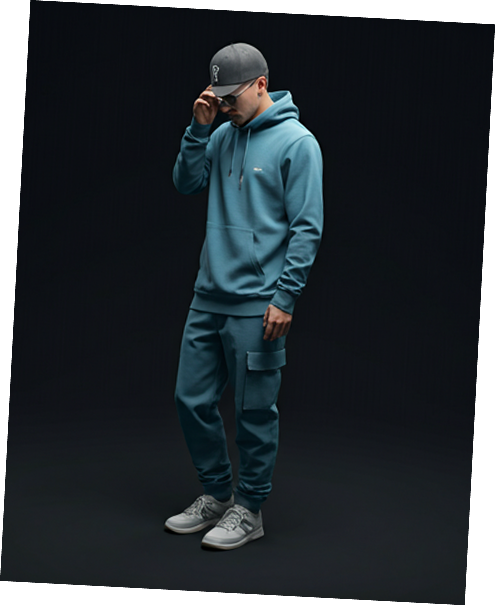
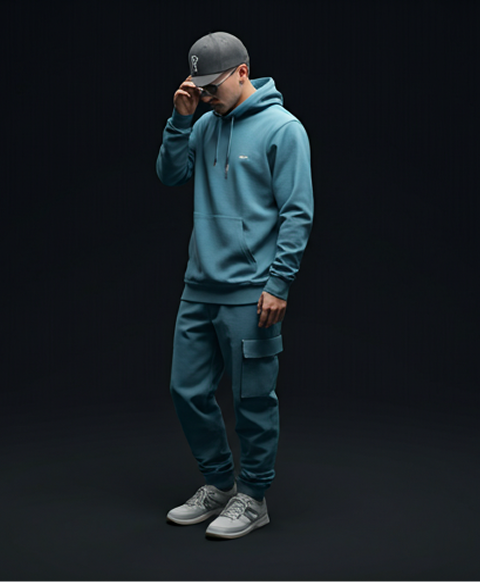
4

Changed region(s): [[0.1247, 0.0, 0.9979, 0.9278], [0.0, 0.0928, 0.9979, 1.0], [0.0, 0.0, 0.0624, 0.9278]]

diff --git a/css/style.css b/css/style.css
@@ -5,7 +5,9 @@
     --hover-color:#fdd34d;
   --main-color:#fff;
 --btn-txt:#FFF0E7;
-  --hero-bg: radial-gradient(85.61% 61.6% at 50% 50%, rgba(253, 211, 77, 0.15) 0%, rgba(253, 211, 77, 0.00) 70%);
+ --adventages:#f6f6f6;
+
+--hero-bg: radial-gradient(85.61% 61.6% at 50% 50%, rgba(253, 211, 77, 0.15) 0%, rgba(253, 211, 77, 0.00) 70%);
 }
 body{
     font-family: "Space Grotesk", sans-serif;
@@ -69,4 +71,101 @@ text-transform: uppercase;
 border-radius: 9999px;
 background: var(--active-color);
 padding: 12px 32px;
+}
+/* hero */
+.hero{
+    padding-top: 160px;
+    padding-bottom: 160px;
+}
+
+.hero_text{
+    
+}
+
+
+
+
+
+
+
+
+
+
+.hero-elem:first-child .hero_img
+{
+    width: 465.3px;
+    border-radius: 150px;
+
+}
+
+
+
+
+
+
+
+
+
+
+
+
+/* advenages */
+.adventages{
+    background-color: var(--adventages);
+    padding-top: 128px;
+    padding-bottom: 128px;
+}
+.adventages .container{
+    display: flex;
+    align-items: center;
+    justify-content: space-between;
+}
+.advenages_div{
+    width: 552px;
+}
+.adadvenages_tittle{
+    align-self: stretch;
+color: var(--tittle-color);
+font-family: "Space Grotesk";
+font-size: 60px;
+font-style: normal;
+font-weight: 700;
+line-height: 60px;
+letter-spacing: -3px;
+margin-bottom: 39px;
+
+}
+.advenages_text{
+
+color: var(--text-color);
+font-family: "Be Vietnam Pro";
+font-size: 20px;
+font-style: normal;
+font-weight: 300;
+line-height: 1.62;
+margin-bottom: 39px;
+}
+.advenages_span{
+
+color: var(--tittle-color);
+font-family: "Be Vietnam Pro";
+font-size: 20px;
+font-style: normal;
+font-weight: 500;
+line-height: 32.5px;
+border-bottom :4px solid var(--hover-color);
+line-height: ;
+}
+
+
+
+
+
+
+
+
+.advenages_img{
+    width: 552.0px;
+height: 736.0px;
+border-radius: 48px;
 }

diff --git a/index.html b/index.html
@@ -26,6 +26,71 @@
 
 </div>
     </header>
+    <main class="main">
+        <section class="hero">
+        <div class="container">
+          <div class="hero_wrap">
+            <p class="hero_text">
+               The Y2K Renaissance   
+            </p>
+            <h1 class="hero_tittle">
+             Y2K Era & Streetwear
+            </h1>
+            <p class="hero_descripto">
+                Your Style — Your Rules. Curating the sun-
+drenched aesthetics of the millennium for the
+modern concrete jungle.
+            </p>
+            <ul class="hero_list">
+                <li class="hero_item"><button type="button" class="hero_btn">Explore Archive</button></li>
+                <li class="hero_item"><button type="button" class="hero_btn">View Drops</button></li>
+            </ul>
+            <ul class="hero_items">
+                <li class="hero_elem"><img src="./css/img/boy.png" alt="man" class="hero_img"></li>
+                <li class="hero_elem"><img src="./css/img/sneakers.png" alt="sneakers" class="hero_img"></li>
+
+            </ul>
+          </div>  
+        </div>
+        </section>
+        <section class="advenages">
+            <div class="container">
+                <div class="advenages_div">
+                    <h2 class="adadvenages_tittle">
+What is Y2K and why
+is it a hit again?
+                    </h2>
+                    <p class="advenages_text">
+                        Fashion is cyclical, and today Gen Z is setting the new
+rules. We mix vintage vibes with modern aesthetics. The
+main rule of modern streetwear is
+                    <span class="advenages_span">
+absolute freedom of self-expression.
+                    </span> 
+                    </p>
+
+                    <blockquote class="advenages_block">
+                        <p class="advenages_txt">"Clothing is the easiest way to tell a story
+about yourself without saying a single
+word."</p>
+                    </blockquote>
+<ul class="adventages_list">
+    <li class="adventages">
+        <p class="adventages_desk"></p>
+    </li>
+        <li class="adventages">
+        <p class="adventages_desk"></p>
+    </li>
+        <li class="adventages">
+        <p class="adventages_desk"></p>
+    </li>
+</ul>
+                </div>
+                <img src="./css/img/girl.png" alt="girl" class="advenages_img">
+            </div>
+        </section>
+
+    </main>
     
 </body>
 </html>

diff --git a/css/reset.css b/css/reset.css
@@ -14,3 +14,6 @@ h1,h2,h3,p{
     margin: 0;
 
 }
+blockquote{
+    margin: 0;
+}